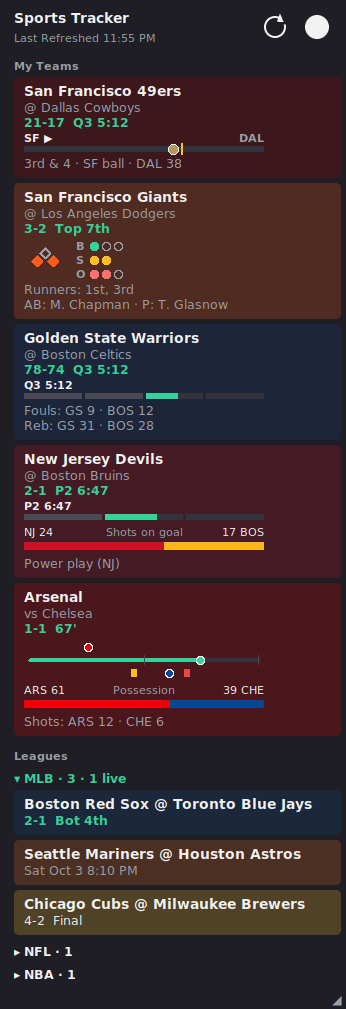
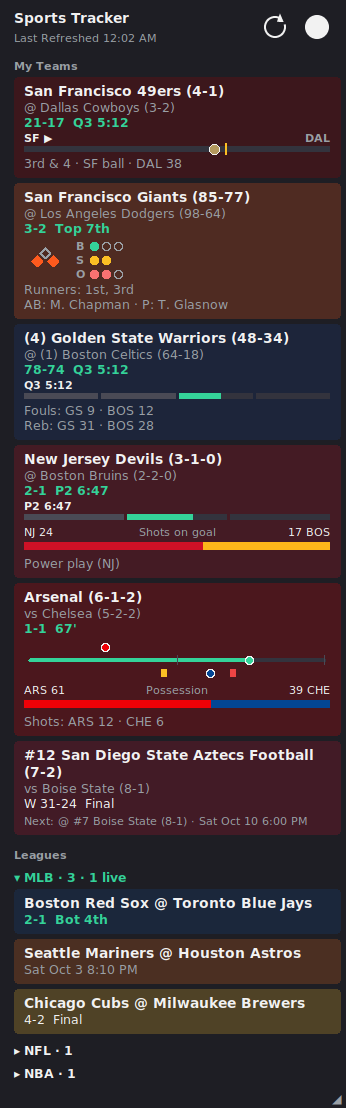
Records, ranks/seeds, last game within a week with next-game line; demo updates
Claude-Session: https://claude.ai/code/session_01J2oDKnQWBXX8cHoFmZ2HA2

diff --git a/sports-widget/sports_widget.py b/sports-widget/sports_widget.py
@@ -57,6 +57,38 @@ def _parse_date(s):
         return None
 
 
+def _record(c):
+    """' (50-32)' for a competitor, or '' when ESPN sends no record."""
+    recs = c.get("records") or c.get("record") or []
+    if isinstance(recs, str):
+        return f" ({recs})" if recs else ""
+    if isinstance(recs, dict):
+        recs = [recs]
+    pick = next((r for r in recs if isinstance(r, dict) and (r.get("type") == "total" or r.get("name") == "overall")),
+                next((r for r in recs if isinstance(r, dict)), None))
+    summ = (pick or {}).get("summary") or (pick or {}).get("displayValue")
+    return f" ({summ})" if isinstance(summ, str) and summ else ""
+
+
+def _rank(c):
+    """'#5 ' for a ranked college team, '(3) ' for a playoff seed, or ''."""
+    r = (c.get("curatedRank") or {}).get("current")
+    if isinstance(r, int) and 1 <= r <= 25:  # ESPN uses 99 for unranked
+        return f"#{r} "
+    seed = c.get("seed") or (c.get("team") or {}).get("seed")
+    if seed not in (None, "", 0, "0") and str(seed).isdigit():
+        return f"({seed}) "
+    return ""
+
+
+def _find_me(comp, team_abbr):
+    for c in comp.get("competitors", []):
+        t = c.get("team", {})
+        if team_abbr.lower() in (t.get("abbreviation", "").lower(), str(t.get("id", c.get("id", ""))).lower()):
+            return c
+    return None
+
+
 def summarize_event(event, team_abbr):
     comp = event["competitions"][0]
     state = comp.get("status", {}).get("type", {}).get("state") or \
@@ -77,7 +109,7 @@ def summarize_event(event, team_abbr):
         me, opp = cs
     sep = "vs" if me.get("homeAway") == "home" else "@"
     ot = opp.get("team", {})
-    opp_name = ot.get("displayName") or ot.get("abbreviation", "?")
+    opp_name = _rank(opp) + (ot.get("displayName") or ot.get("abbreviation", "?")) + _record(opp)
     when = _parse_date(event.get("date"))
     if state == "pre":
         text = when.astimezone().strftime("%a %b %d %I:%M %p").replace(" 0", " ") if when else detail
@@ -445,6 +477,30 @@ def pick_event(events, days=7):
     return None
 
 
+def _state_of(e):
+    return e["competitions"][0].get("status", {}).get("type", {}).get("state", "pre")
+
+
+def recent_result(events, hours=24 * 7):
+    """Most recent completed game that started within the last `hours` hours (default: a week)."""
+    now = datetime.now(timezone.utc)
+    best = None
+    for e in events:
+        d = _parse_date(e.get("date"))
+        if e.get("competitions") and _state_of(e) == "post" and d and now - timedelta(hours=hours + 4) <= d <= now:
+            if best is None or e["date"] > best["date"]:
+                best = e
+    return best
+
+
+def next_event(events):
+    """The next game that has not started yet (any distance away), or None."""
+    now = datetime.now(timezone.utc)
+    ups = [e for e in events if e.get("competitions") and _state_of(e) == "pre"
+           and (_parse_date(e.get("date")) or now) >= now]
+    return min(ups, key=lambda e: e["date"]) if ups else None
+
+
 def _same_day(event, now_iso):
     d, n = _parse_date(event.get("date")), _parse_date(now_iso)
     return bool(d and n and d.astimezone().date() == n.astimezone().date())
@@ -453,16 +509,29 @@ def _same_day(event, now_iso):
 def team_status(entry):
     data = fetch_schedule(entry)
     team = data.get("team", {})
-    name = entry.get("label") or team.get("displayName") or entry["team"].upper()
-    event = pick_event(data.get("events", []))
+    base_name = entry.get("label") or team.get("displayName") or entry["team"].upper()
+    own = team.get("recordSummary") or ((team.get("record") or {}).get("items") or [{}])[0].get("summary")
+    events = data.get("events", [])
+    event = pick_event(events)  # live game, else next game within a week
+    next_line = ""
+    if not event or _state_of(event) != "in":
+        recent = recent_result(events)
+        if recent:  # a game that just ended: show the result and when the next one is
+            event = recent
+            nxt = next_event(events)
+            s_next = summarize_event(nxt, entry["team"]) if nxt else None
+            next_line = f"Next: {s_next[1]} \u00b7 {s_next[2]}" if s_next else "No upcoming game scheduled"
     if not event:
         return None
     s = summarize_event(event, entry["team"])
     if not s:
         return None
     state, line, detail = s
+    me = _find_me(event["competitions"][0], entry["team"]) or {}
+    name = _rank(me) + base_name + (f" ({own})" if own else "")
     info, graphic = live_info(entry, event) if state == "in" else ("", None)
     return {"name": name, "state": state, "line": line, "detail": detail, "info": info, "graphic": graphic,
+            "next": next_line,
             "_key": (entry["league"], str(event.get("id"))), "tint": tint_color(team),
             "url": event_url(event, entry["sport"], entry["league"]),
             "game": {"sport": entry["sport"], "league": entry["league"], "id": str(event.get("id"))}}
@@ -683,7 +752,7 @@ def summarize_game(event):
     def ab(c):
         a = c.get("athlete", {})
         t = c.get("team", {})
-        return t.get("displayName") or t.get("abbreviation") or a.get("displayName") or a.get("shortName", "?")
+        return _rank(c) + (t.get("displayName") or t.get("abbreviation") or a.get("displayName") or a.get("shortName", "?")) + _record(c)
     if state == "pre":
         when = _parse_date(event.get("date"))
         text = when.astimezone().strftime("%a %b %d %I:%M %p").replace(" 0", " ") if when else detail
@@ -697,7 +766,7 @@ def pinned_status(pin):
         if str(e.get("id")) == str(pin["id"]):
             s = summarize_game(e)
             if s:
-                return {"name": pin["label"], "state": s[0], "line": s[1], "detail": s[2],
+                return {"name": s[1], "state": s[0], "line": "", "detail": s[2],
                         "_key": (pin["league"], str(pin["id"])), "tint": home_tint(e["competitions"][0]),
                         "url": event_url(e, pin["sport"], pin["league"]),
                         "game": {"sport": pin["sport"], "league": pin["league"], "id": str(pin["id"])},
@@ -1468,6 +1537,9 @@ def run_gui():
         if r.get("info"):
             _, h = ctext(ix, yy, r["info"], FONTS["line"], DIM, width=ww, tags=tags)
             yy += h
+        if r.get("next"):
+            _, h = ctext(ix, yy + 3, r["next"], FONTS["small"], DIM, width=ww, tags=tags)
+            yy += 3 + h
         g = r.get("game")
         ctx = None
         if g and gkey(g) in session["expanded"]:
@@ -1986,8 +2058,9 @@ def demo_data():
     st = lambda n, v: {"name": n, "displayValue": str(v)}
     team = lambda i, ha, a, score, stats=(): {"id": i, "homeAway": ha, "score": str(score), "statistics": list(stats),
                                               "team": {"id": i, "abbreviation": a, **TEAM_COLORS.get(a, {})}}
-    def row(name, sport, league, line, detail, comp, tint=None):
-        return {"name": name, "state": "in", "line": line, "detail": detail, "tint": tint, "url": "https://www.espn.com/",
+    def row(name, sport, league, line, detail, comp, tint=None, state="in", next_line=""):
+        return {"name": name, "state": state, "line": line, "detail": detail, "tint": tint, "url": "https://www.espn.com/",
+                "next": next_line,
                 "info": situation_text(sport, comp), "graphic": situation_graphic(sport, comp, league)}
     nfl = {"competitors": [team("25", "away", "SF", 21), team("6", "home", "DAL", 17)],
            "situation": {"shortDownDistanceText": "3rd & 4", "possession": "25", "possessionText": "DAL 38", "distance": 4}}
@@ -2007,11 +2080,14 @@ def demo_data():
                        {"redCard": True, "clock": {"displayValue": "62'"}, "team": {"id": "2"}}],
            "competitors": [team("1", "home", "ARS", 1, [st("possessionPct", 61), st("totalShots", 12)]),
                            team("2", "away", "CHE", 1, [st("possessionPct", 39), st("totalShots", 6)])]}
-    return [row("San Francisco 49ers", "football", "nfl", "@ Dallas Cowboys", "21-17  Q3 5:12", nfl, tint="#aa0000"),
-            row("San Francisco Giants", "baseball", "mlb", "@ Los Angeles Dodgers", "3-2  Top 7th", mlb, tint="#fd5a1e"),
-            row("Golden State Warriors", "basketball", "nba", "@ Boston Celtics", "78-74  Q3 5:12", nba, tint="#1d428a"),
-            row("New Jersey Devils", "hockey", "nhl", "@ Boston Bruins", "2-1  P2 6:47", nhl, tint="#ce1126"),
-            row("Arsenal", "soccer", "eng.1", "vs Chelsea", "1-1  67'", soc, tint="#ef0107")]
+    return [row("San Francisco 49ers (4-1)", "football", "nfl", "@ Dallas Cowboys (3-2)", "21-17  Q3 5:12", nfl, tint="#aa0000"),
+            row("San Francisco Giants (85-77)", "baseball", "mlb", "@ Los Angeles Dodgers (98-64)", "3-2  Top 7th", mlb, tint="#fd5a1e"),
+            row("(4) Golden State Warriors (48-34)", "basketball", "nba", "@ (1) Boston Celtics (64-18)", "78-74  Q3 5:12", nba, tint="#1d428a"),
+            row("New Jersey Devils (3-1-0)", "hockey", "nhl", "@ Boston Bruins (2-2-0)", "2-1  P2 6:47", nhl, tint="#ce1126"),
+            row("Arsenal (6-1-2)", "soccer", "eng.1", "vs Chelsea (5-2-2)", "1-1  67'", soc, tint="#ef0107"),
+            row("#12 San Diego State Aztecs Football (7-2)", "football", "college-football", "vs Boise State (8-1)",
+                "W 31-24  Final", {}, tint="#c41230", state="post",
+                next_line="Next: @ #7 Boise State (8-1) \u00b7 Sat Oct 10 6:00 PM")]
 
 
 def demo_leagues():
